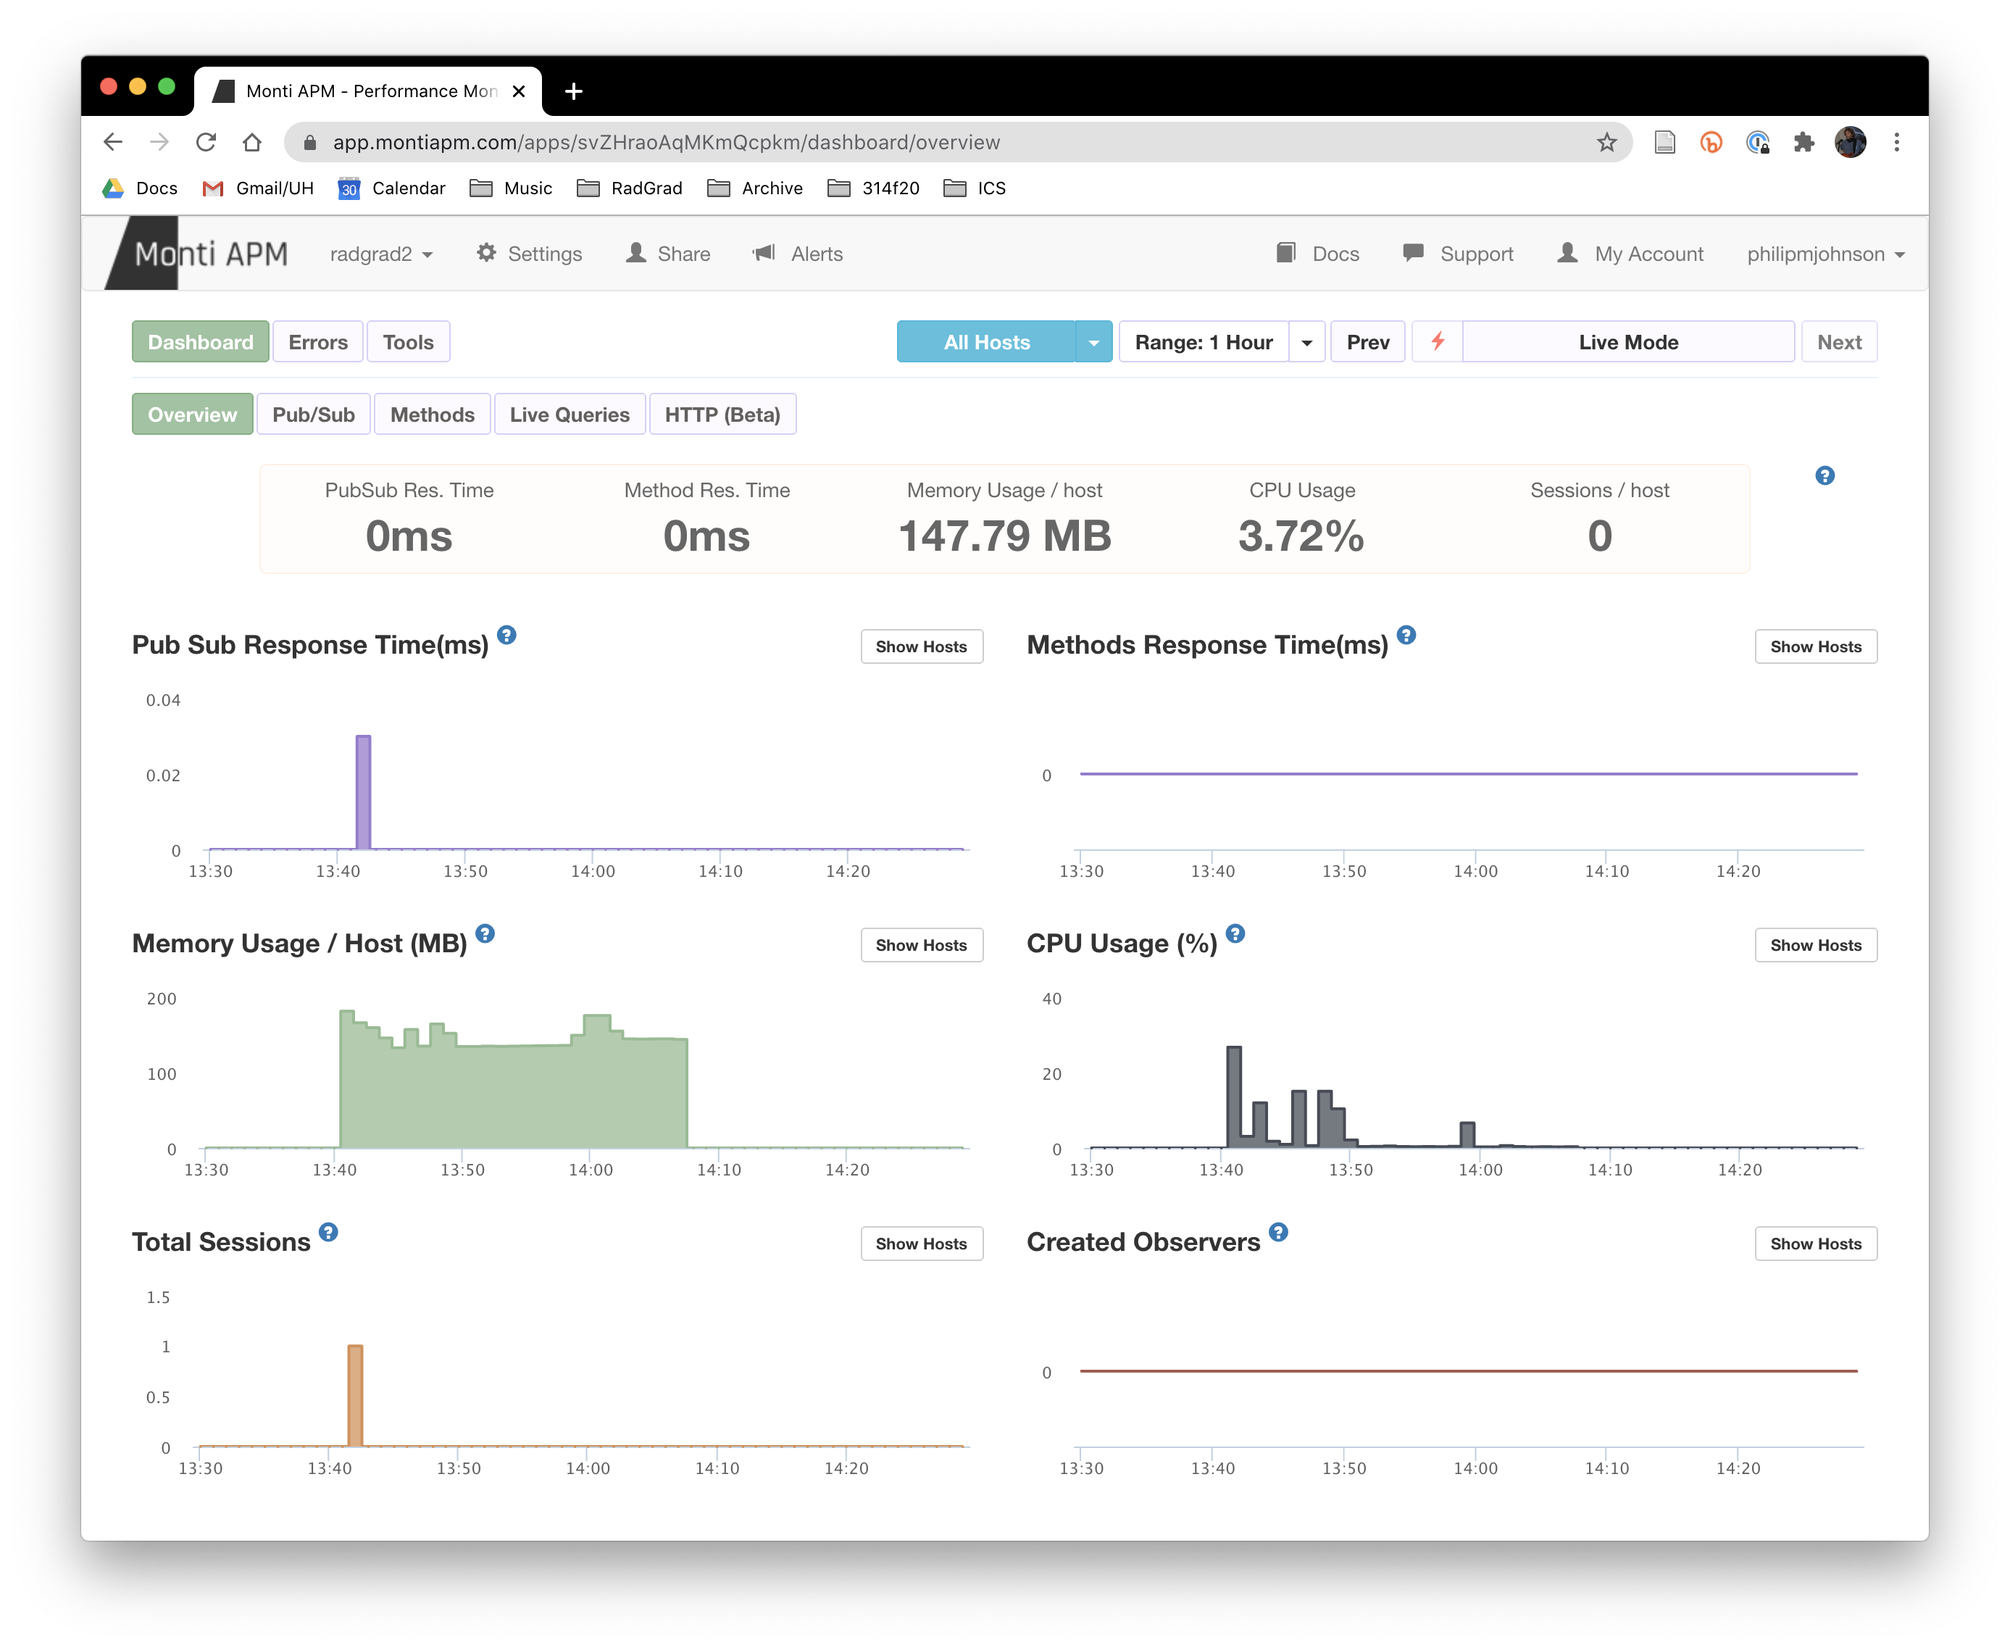
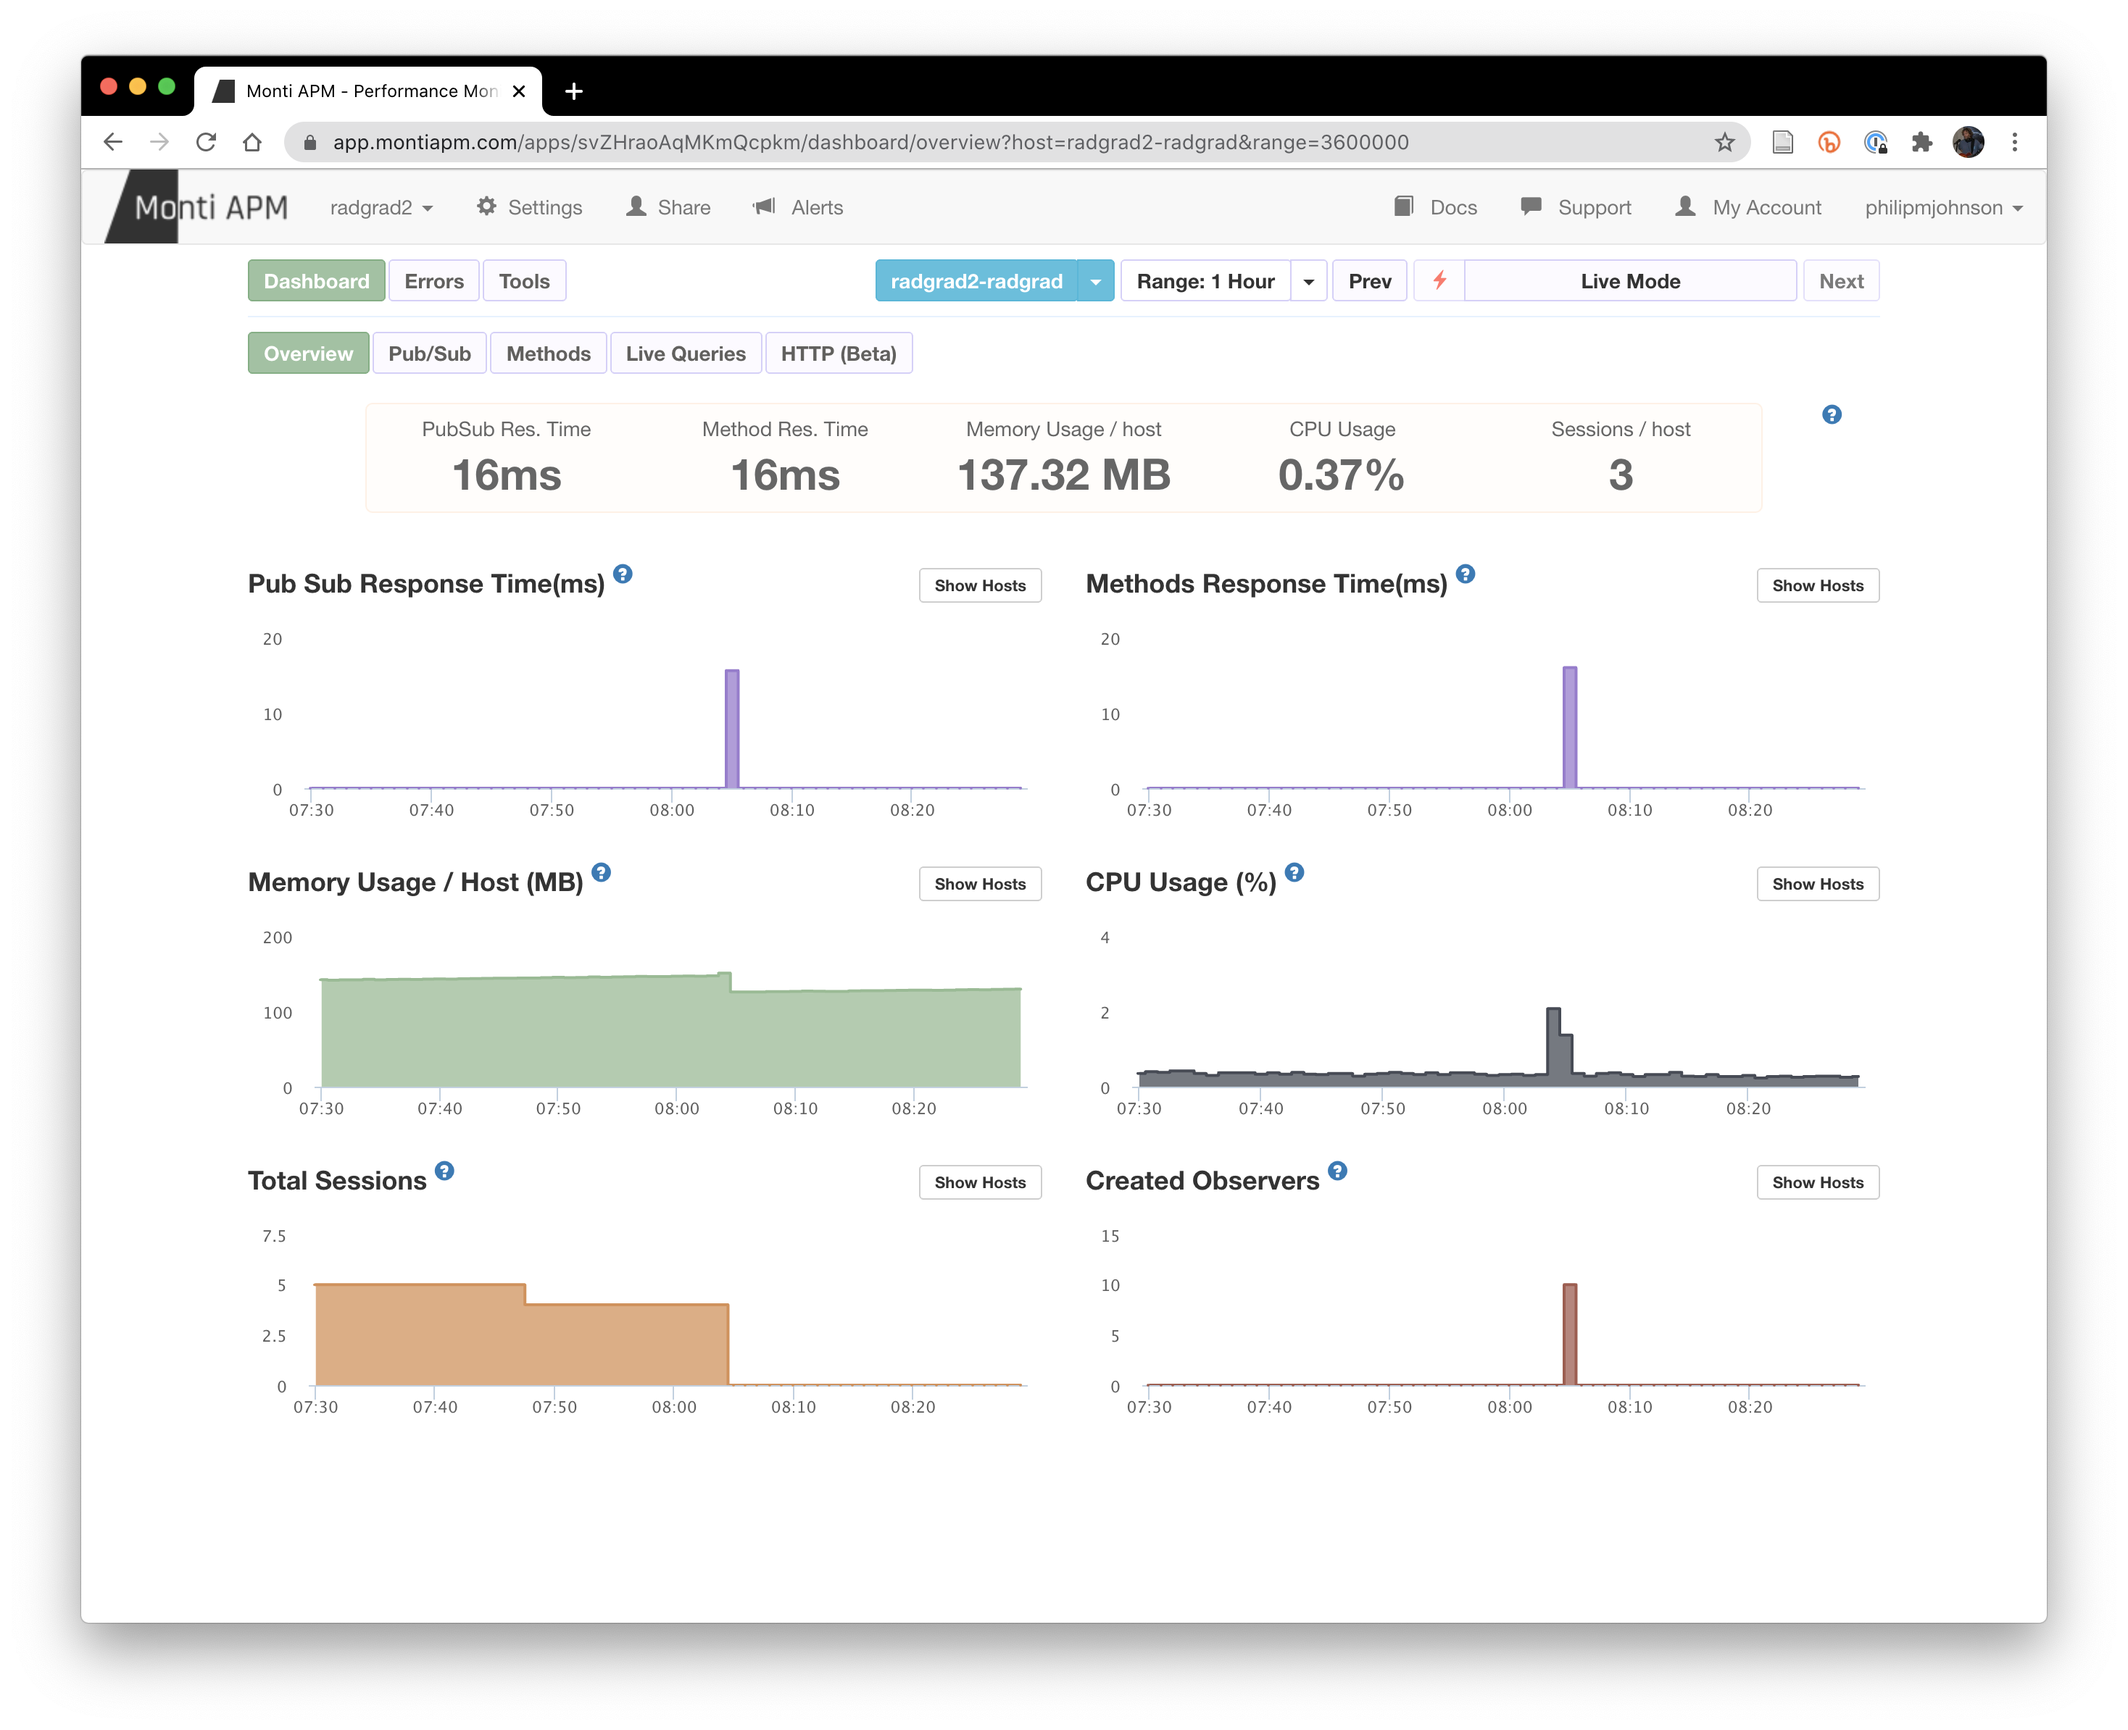
Document montiapm

diff --git a/docs/developers/deployment/howto/setup-production-server-mup.md b/docs/developers/deployment/howto/setup-production-server-mup.md
@@ -169,13 +169,15 @@ And after connecting, you can inspect any collection and document:
 ![](/img/deployment/robo3t-dashboard.png)
 
 
-
-
 ## Setup APM
 
-It is useful to have application performance monitoring.  We hope to be able to use [Monti APM](https://montiapm.com/). Unfortunately, there is a problem with the latest release of the agent, as documented [here](https://github.com/monti-apm/monti-apm-agent/issues/14#issuecomment-701714047). Hopefully that problem will be resolved soon.
+We use [Monti APM](https://montiapm.com/) for application monitoring.
 
-Here's what a Monti APM dashboard will look if we can get the bug resolved:
+To setup Monti APM, you will need to provide credentials in the settings.json file in the "monti" section.
+
+Monti APM provides useful metrics for performance optimization, as well as logging client and server side run-time errors.
+
+Here is a screenshot of one of the Monti APM screens:
 
 ![](/img/deployment/monti-apm-dashboard.png)
 
